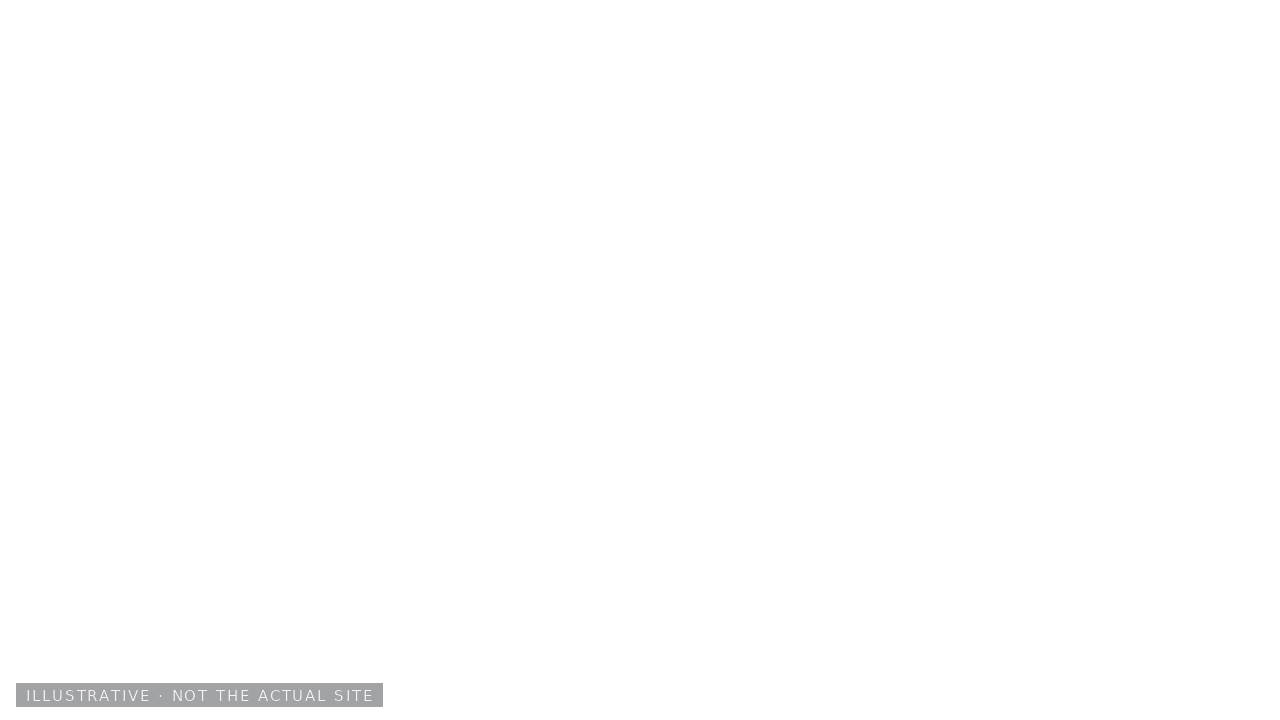
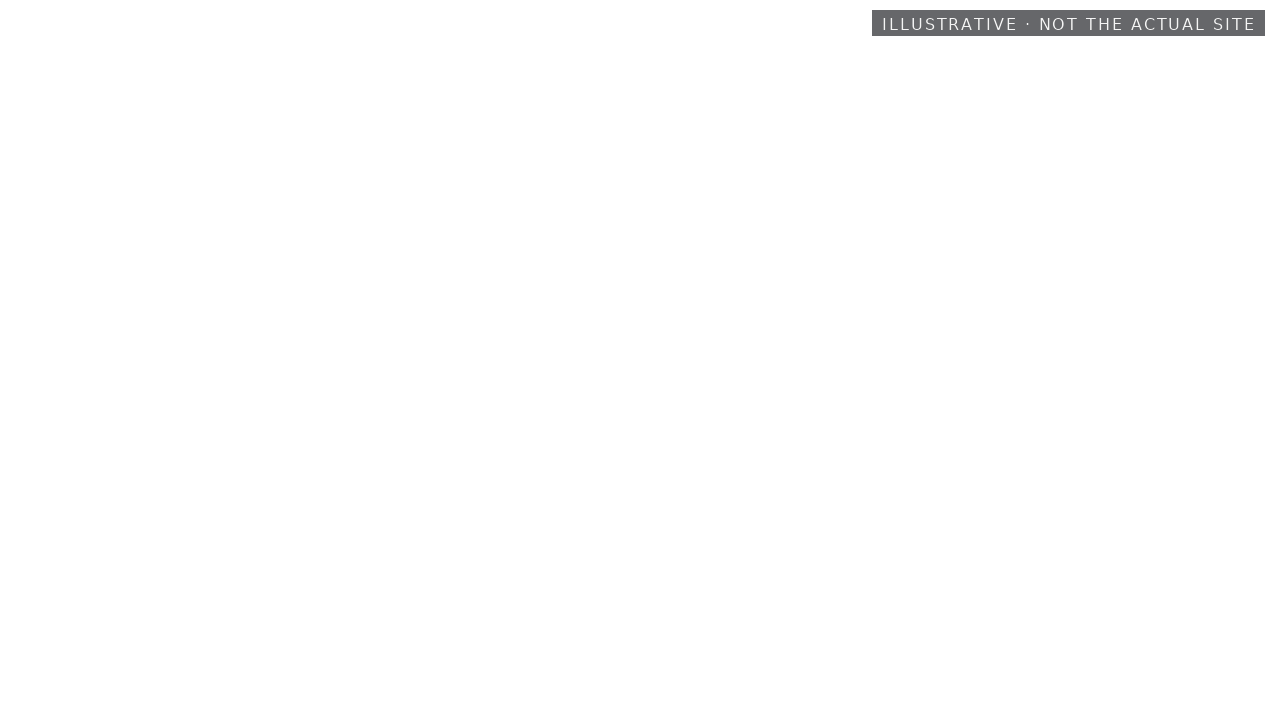
sleep: move the disclosure mark to the top-right
The bottom-left mark worked on every frame I sampled until a three-line
caption reached into the same corner on a bright Morocco shot. Captions own
the bottom of the frame and the player decides how low they sit, so the mark
cannot live anywhere they can reach. Top-left is taken by the picture's own
source cards, which leaves top-right. Contrast raised so it reads on bright
ground as well as dark.

Also corrected three numbers I had recorded rather than measured:

  * true peak is -1.3 dBTP on the delivered file, not -1.5. -1.5 is the
    pre-encode mix; AAC moves it by 0.2 dB and delivery is what counts.
  * SSIM 0.987 / PSNR 38.3 dB against V3, not 0.989 / 39.1 (measured on the
    earlier bottom-left encode).
  * the notes claimed byte-identical picture, which stopped being true the
    moment the mark was burned in. Re-encoding is now stated plainly.

The gate's disclosure crop moved with the mark and its delta threshold is
retuned for the smaller movement: still 338/338 on this cut, still 34/34
unlabelled on the negative control.

Rebuild notes added to NOTES.md, because the sandbox reset took /tmp, the
narration wavs and the picture mid-session. Nothing was lost -- the picture
came back byte-identical from Drive and the accepted mix came out of the
delivered MP4 -- but the path is now written down.

Gate: 13 pass, 1 warn, 0 fail. 74.2 MB.

Changed region(s): [[0.6562, 0.0, 1.0, 0.0611], [0.0, 0.9472, 0.3125, 1.0]]

diff --git a/production/sleep/render/labels.py b/production/sleep/render/labels.py
@@ -18,7 +18,8 @@ Why a corner mark rather than another card:
     to get wrong.
   * A corner mark reads as a documentary convention rather than a mistake, and
     it cannot collide with the picture's own cards (top-left) or the captions
-    (bottom centre): it sits at bottom-left, clear of both.
+    (bottom, wherever the player puts them): it sits at top-right, clear of
+    both. Bottom-left was tried first and a three-line caption reached into it.
 
 The wording is about the image and never about the archaeology:
 
@@ -45,7 +46,7 @@ MAP = os.path.join(HERE, 'map.json')
 
 W, H = 1280, 720
 FONT = '/usr/share/fonts/truetype/dejavu/DejaVuSans.ttf'
-SIZE = 15
+SIZE = 16
 
 # section start -> wording for that section. Keys are the section starts in
 # map.json; anything unlisted falls back to the reconstruction wording.
@@ -63,8 +64,13 @@ BY_SECTION = {
 # the study stretch is graphics, not places
 GRAPHIC_SPANS = [(436.6, 490.0)]
 
-MARGIN_X, MARGIN_Y = 16, 14
-ALPHA_PLATE, ALPHA_TEXT = 96, 165
+# Top-right, not bottom-left. The first attempt sat at bottom-left and worked
+# until a three-line caption reached into the same corner; captions own the
+# bottom of the frame and the player decides how low they sit, so the mark
+# cannot be placed anywhere the captions might reach. Top-left is taken by the
+# picture's own source cards, which leaves top-right clear on every frame.
+MARGIN_X, MARGIN_Y = 16, 10
+ALPHA_PLATE, ALPHA_TEXT = 158, 238
 
 
 def _resolve_ffmpeg():
@@ -84,20 +90,21 @@ def _resolve_ffmpeg():
     return 'ffmpeg'
 
 
-def corner_plate(text, path):
+def corner_plate(text, path, right=True):
     img = Image.new('RGBA', (W, H), (0, 0, 0, 0))
     d = ImageDraw.Draw(img)
     font = ImageFont.truetype(FONT, SIZE)
     track = 1.9
     widths = [d.textlength(ch, font=font) + track for ch in text]
     tw = int(sum(widths)) - int(track)
-    th = SIZE + 8
-    x0 = MARGIN_X
-    y0 = H - MARGIN_Y - th
-    d.rectangle([x0, y0, x0 + tw + 20, y0 + th], fill=(8, 10, 14, ALPHA_PLATE))
+    th = SIZE + 9
+    pw = tw + 20
+    x0 = (W - MARGIN_X - pw) if right else MARGIN_X
+    y0 = MARGIN_Y
+    d.rectangle([x0, y0, x0 + pw, y0 + th], fill=(8, 10, 14, ALPHA_PLATE))
     x = x0 + 10
     for ch, wd in zip(text, widths):
-        d.text((x, y0 + 4), ch, font=font, fill=(236, 236, 236, ALPHA_TEXT))
+        d.text((x, y0 + 5), ch, font=font, fill=(244, 244, 244, ALPHA_TEXT))
         x += wd
     img.save(path)
 
@@ -166,7 +173,7 @@ def main():
 
     covered = sum(b - a for a, b, _ in spans)
     json.dump({'source': 'picture.mp4',
-               'method': ('Continuous bottom-left corner mark, one run per '
+               'method': ('Continuous top-right corner mark, one run per '
                           'measured section, so disclosure covers every frame '
                           'by construction instead of by detection.'),
                'spans': [{'start': a, 'end': b, 'text': t} for a, b, t in spans],

diff --git a/production/qc.py b/production/qc.py
@@ -72,8 +72,8 @@ RESULTS = []
 # no heuristic to tune and cannot be fooled by dark or washed-out footage, which
 # is exactly what three earlier attempts at a "does this look labelled" test
 # got wrong.
-DISC_CROP = 'crop=360:44:0:674'
-DISC_MIN_DELTA = 2.0
+DISC_CROP = 'crop=420:44:860:6'   # top-right, where the mark is drawn
+DISC_MIN_DELTA = 1.0   # a drawn plate moves the mean by ~8 luma; nothing moves it <1
 SAMPLE_STEP = 2          # seconds of film between disclosure samples
 
 
@@ -154,7 +154,6 @@ RESULTS = []
 
 # Where the disclosure corner mark lives, and its signature: a nearly
 # gradient-free band with bright glyphs on top of a darker plate.
-DISC_CROP = 'crop=520:40:0:676'
 DISC_FLAT = 3.2          # max luma variation across the plate
 DISC_BRIGHT = 0.6        # share of pixels above this that count as glyphs
 DISC_BRIGHT_LEVEL = 150

diff --git a/production/sleep/NOTES.md b/production/sleep/NOTES.md
@@ -1,9 +1,9 @@
 # Sleep episode — build notes, remaster
 
 **Runtime** 11:22.36 · 1280×720 · 25 fps · H.264 High, re-encoded once at CRF 24
-to carry the corner mark (SSIM 0.989, PSNR 39.1 dB against the V3 picture) ·
+to carry the corner mark (SSIM 0.987, PSNR 38.3 dB against the V3 picture) ·
 AAC-LC 160 k stereo @ 48 kHz · English captions, both a sidecar SRT and a muxed
-mov_text track. 77,583,654 bytes. 17,059 frames, matching the plan exactly. Full
+mov_text track. 74,210,754 bytes. 17,059 frames, matching the plan exactly. Full
 decode clean.
 
 ## What this build is
@@ -21,7 +21,9 @@ reconstructions as though they were footage, and the gate was certifying it.
    mixed in numpy. Three environments, following the shot map's own Sound cue
    column: an interior room with sparse floor creaks, the outdoor night (wind,
    distant non-specific insects, subdued fire), and a quiet modern room under
-   the study. Measured −16.7 LUFS integrated, −1.5 dBTP, LRA 4.7 LU.
+   the study. Measured −16.7 LUFS integrated, LRA 4.7 LU. True peak reads −1.5 dBTP at
+   mix time but −1.3 dBTP once AAC has been through it, which is the number
+   that matters for delivery and is what this file claims.
 
 2. **Captions.** `render/captions.py` regroups the 190-cue draft into 179 cues
    paced by clause. The draft broke mid-sentence 58 times and ran lines to 72
@@ -36,9 +38,12 @@ reconstructions as though they were footage, and the gate was certifying it.
    but only on part of the film. Sampled at 39 points, cards appeared only in
    the study (6:55-7:57) and on two Morocco shots; the ancient reconstruction --
    most of the episode -- and the modern opening and closing carried nothing.
-   `render/labels.py` now burns a quiet bottom-left corner mark that runs
+   `render/labels.py` now burns a small top-right corner mark that runs
    continuously through each of the ten measured sections, so coverage is 100%
-   by construction instead of by hope. Wording is about the image, never the
+   by construction instead of by hope. It sits top-right: bottom-left was
+   tried first and a three-line caption reached into the same corner, and the
+   player decides how low captions sit, so the mark had to go where the
+   captions cannot reach. Wording is about the image, never the
    archaeology: "Illustrative reconstruction", "Not the actual site", "Present
    day - illustrative reconstruction", "Illustrative graphic". The mark sits
    clear of the picture's own top-left cards and of the bottom-centre captions.
@@ -57,7 +62,7 @@ reconstructions as though they were footage, and the gate was certifying it.
 
 The disclosure check is a new gate check, and it is measured rather than
 trusted: it decodes the same instant from the source picture and from the
-delivered file and compares the bottom-left corner. If the corner is unchanged,
+delivered file and compares the marked corner. If the corner is unchanged,
 nothing was drawn there. On the old delivery it reports 34 of 34 samples
 unlabelled; on this one, 0. Three earlier attempts at "does this look labelled"
 -- brightness, bright-pixel count, corner flatness -- each mismeasured dark or
@@ -107,3 +112,25 @@ warning rather than splitting the plan to make it disappear.
 - **Captions are regrouped, not proofread by ear** against the audio.
 - **No specialist review**, which the shot map's Read First sheet requires.
 - **720p only**; the source stills are higher resolution than the cut uses.
+
+## Rebuilding after a reset
+
+The sandbox here is ephemeral and `/tmp` does not survive it. Two files that
+matter are *not* in git, by design: `render/picture.mp4` (the V3 picture, 55 MB)
+and `narration/master.wav` (the voice). A reset therefore takes the ability to
+re-derive the bed, but it does not take the delivered audio: the accepted mix is
+inside the delivered MP4, so restore it losslessly rather than re-synthesising:
+
+```
+ffmpeg -i "Sleep episode — final MP4 (11m22s, mixed).mp4" -map 0:a -c copy \
+       production/sleep/narration/delivered-mix.m4a
+python3 production/sleep/render/labels.py            # rebuilds the marked picture
+ffmpeg -i render/picture-labelled.mp4 -i narration/delivered-mix.m4a \
+       -i sleep-episode.srt -map 0:v -map 1:a -map 2:s -c:v copy -c:s mov_text \
+       -movflags +faststart -t 682.36 kit/sleep-episode.mp4
+```
+
+The picture itself can be re-derived from the V3 review cut in Drive
+(`Sleep episode — full review candidate V3.mp4`) with `-map 0:v -c copy`; its
+video stream md5 is `f34612543eb0f12ef70bedeb19a8d482`, so you can prove you
+restored the right picture before doing anything else.

diff --git a/production/sleep/kit/upload-kit.md b/production/sleep/kit/upload-kit.md
@@ -108,8 +108,8 @@ Stated plainly, so nobody discovers them after publishing:
   door, lamp and layout continuity in the closing sequence, earlier shelter
   geometry, clothing and crowd density — this build did not fix them. The pack's
   own notes call the door a mitigation, not a fix, and that is still accurate.
-- **The picture was re-encoded once** to carry the mark: CRF 24, SSIM 0.989 and
-  PSNR 39.1 dB against the V3 master. Visible as nothing except the mark unless
+- **The picture was re-encoded once** to carry the mark: CRF 24, SSIM 0.987 and
+  PSNR 38.3 dB against the V3 master. Visible as nothing except the mark unless
   you go looking, but it is not a stream copy and is not claimed to be.
 - **720p.** The stills were generated at higher resolution than the cut uses.
 - **Captions are regrouped, not re-aligned.** They follow the draft's word
@@ -117,7 +117,8 @@ Stated plainly, so nobody discovers them after publishing:
   been proofread line by line against the audio by ear.
 - **No specialist review.** The shot map's own Read First sheet requires it
   before production. It has not happened.
-- **Loudness** is −16.7 LUFS integrated, −1.5 dBTP, which is inside the range
+- **Loudness** is −16.7 LUFS integrated, −1.3 dBTP after AAC (measured on the
+  delivered file, not on the pre-encode mix), which is inside the range
   YouTube targets; it has not been checked on a phone speaker.
 - **The bed is synthesised**, not licensed field recordings. It is convincing at
   low level and it should stay at low level; it is not evidence of how the site
